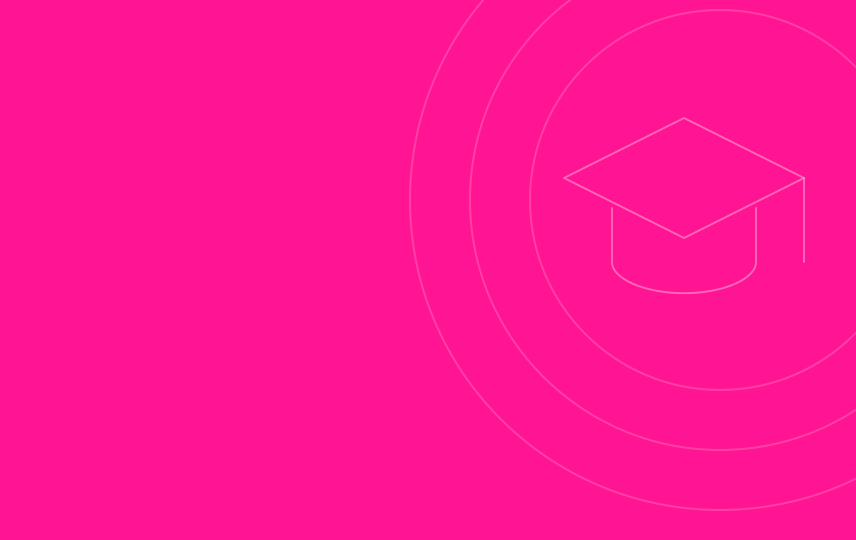
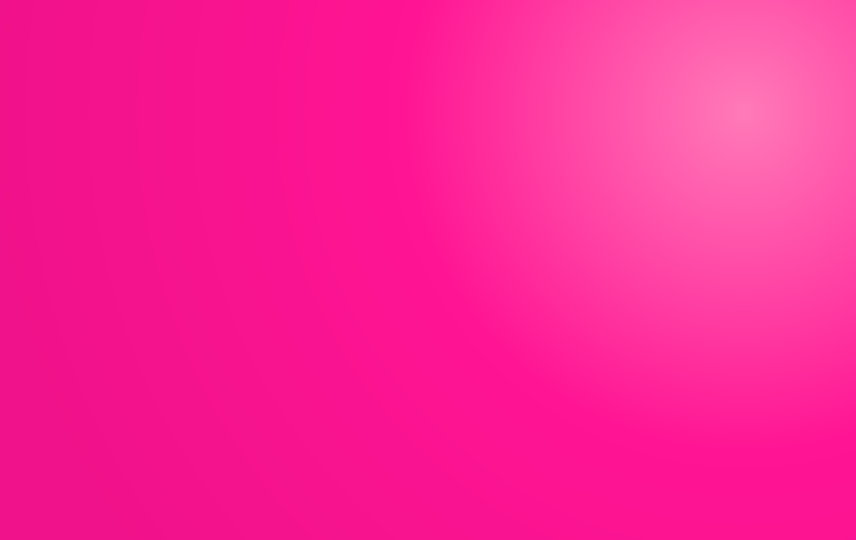
Credential cards: gradient only, like the Open Badge card template
Radial gradient around the fallback colour; no rings or icons.

diff --git a/docs/student-status-wallet-credential.md b/docs/student-status-wallet-credential.md
@@ -50,8 +50,8 @@ later, it becomes a new version of this type.
   the Findynet design system), contrast 5.2:1. That is as far from the Open Badge's navy card with white text
   as it gets. Most wallets show only these colours and the name. The SVG card uses the same two colours.
   Wallets that read the issuer metadata (not the VCT) also get `background_image`, `public/cards/student-status.png`:
-  the same pink with a faint mortarboard and rings on the right. The pattern is only lighter than the pink,
-  so the navy text stays above 5:1 wherever a wallet draws the name.
+  a radial gradient like the Open Badge card's, lighter pink at the top right and slightly deeper at the far
+  corner. The navy text stays above 4.5:1 wherever a wallet draws the name.
 - **SVG card** (`templates/svg/StudentStatus_v1.svg`): a student card rather than a medal. It shows the
   holder's name, the institution, the level and programme, and "valid until". As with the Open Badge card, the
   template has no fixed text, so one file serves every language. "Valid until" would need fixed text, so the
